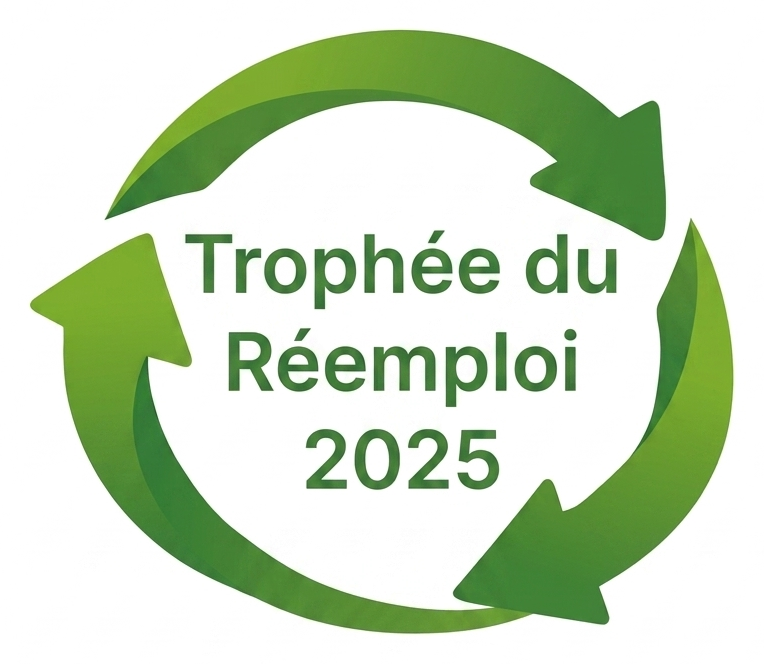
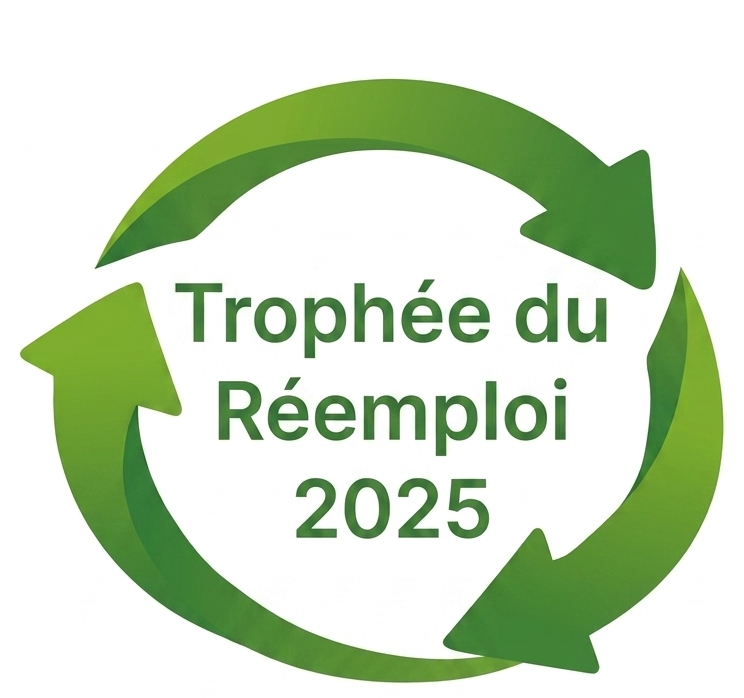
Bloc Mission : suppression des 2 filets blancs / Picto Lauréat : recadrage asymétrique pour descendre les flèches
- Mission : les deux <hr> décoratifs sont supprimés, l'aplat bleu
  reste seul avec la phrase blanche.
- Picto Lauréat : recadrage avec padding asymétrique (130 px en
  haut, 15 px en bas) pour décaler visuellement les flèches vers
  le bas dans leur zone d'affichage (~16 px de décalage à 140 px
  d'affichage), conformément au visuel plus centré attendu.

Changed region(s): [[0.0309, 0.0301, 0.9583, 0.994], [0.7728, 0.512, 0.9892, 0.9036]]

diff --git a/index.html b/index.html
@@ -719,11 +719,9 @@
          ============================================================ -->
     <section class="section mission" id="concept" aria-label="Notre mission">
       <div class="container">
-        <hr class="mission__divider" aria-hidden="true">
         <p class="mission__sentence">
           Re-Watt prolonge la durée de vie des batteries électriques amovibles, près de chez vous.
         </p>
-        <hr class="mission__divider mission__divider--bottom" aria-hidden="true">
       </div>
     </section>
 
